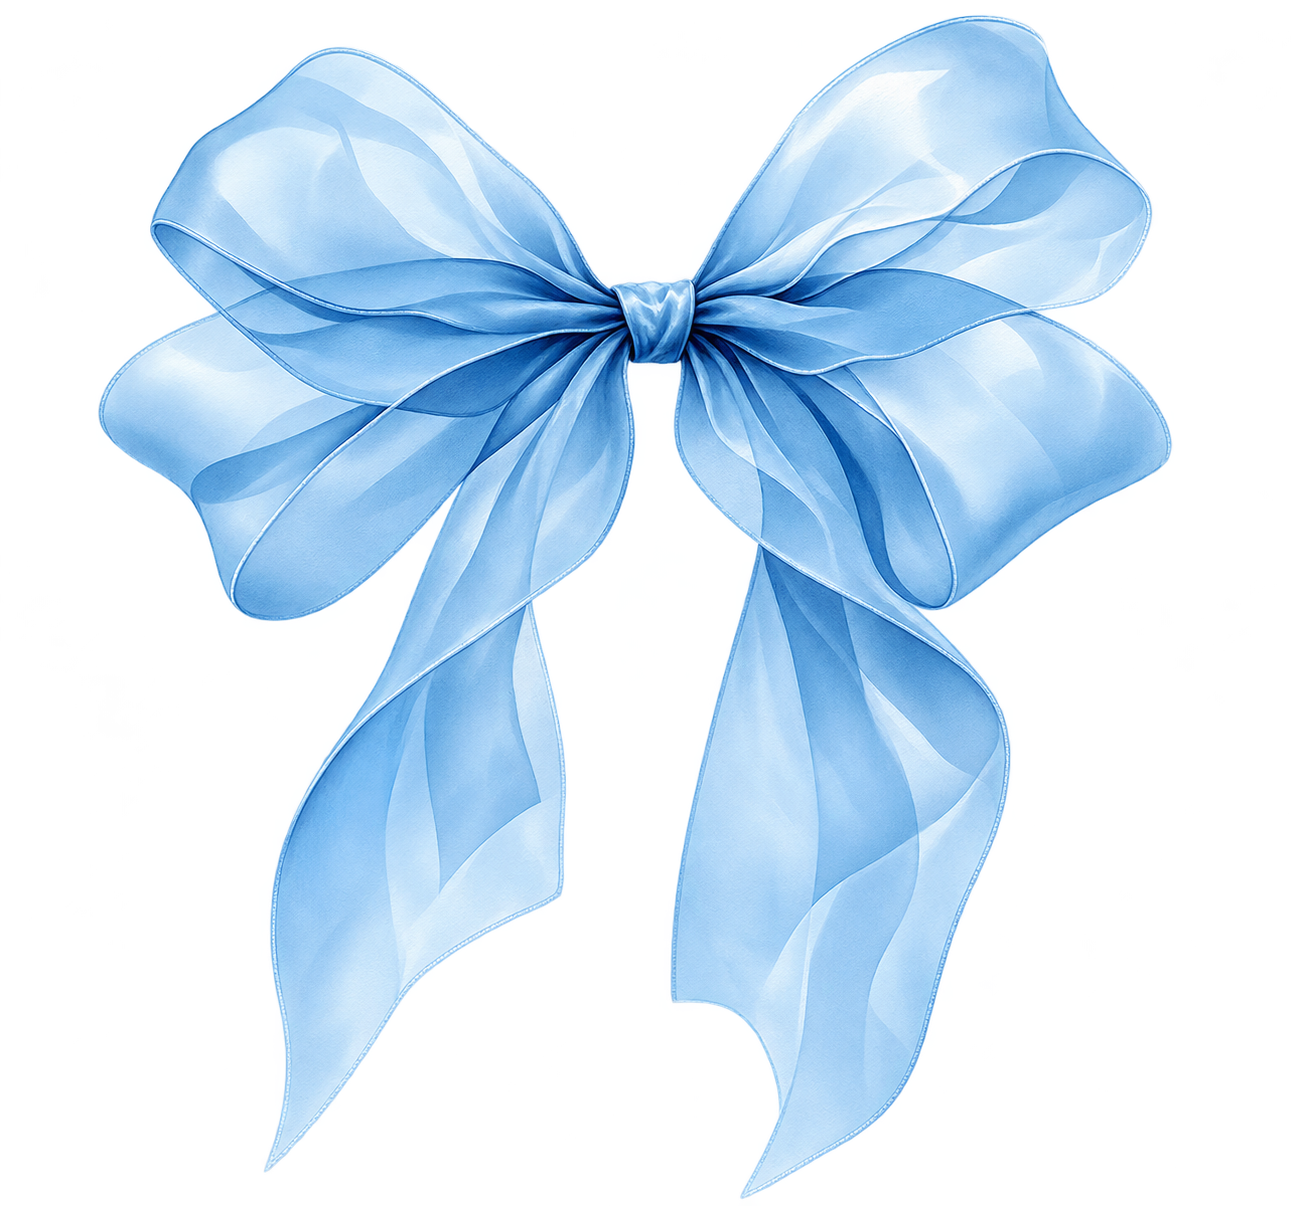
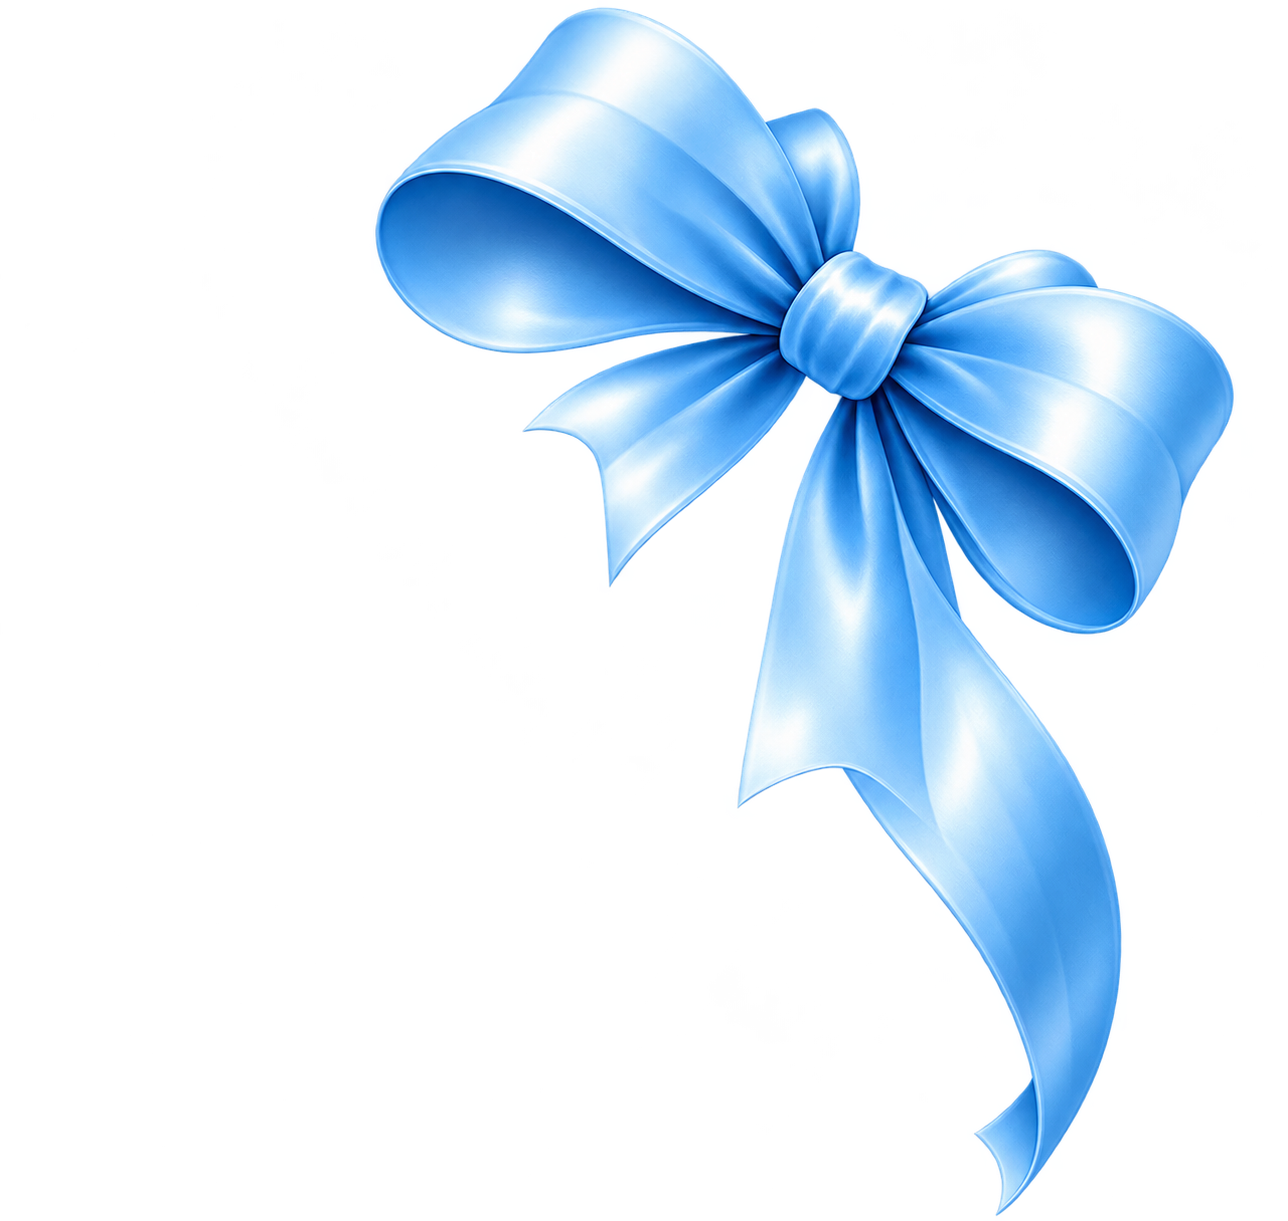
Add separate Cloudinary account for blog uploads

diff --git a/app/p/wedding/[token]/page.tsx b/app/p/wedding/[token]/page.tsx
@@ -239,7 +239,7 @@ export default function WeddingCataloguePage() {
       }}
     >     
       
-            {/* WEDDING CATALOGUE HERO — QUOTATION COVER STYLE */}
+      {/* WEDDING CATALOGUE HERO — QUOTATION COVER STYLE */}
       <section
         className="relative isolate flex min-h-[100svh] w-full items-center justify-center overflow-hidden px-4 pb-8 pt-24 text-center text-white sm:px-8 sm:pb-12 sm:pt-28"
         style={{
@@ -412,174 +412,168 @@ export default function WeddingCataloguePage() {
       <section className="mx-auto max-w-7xl px-5 pb-24 sm:px-8">
         <div className="space-y-12">
           {data.templates.map((pkg, index) => (
-            <article
-              key={pkg.templateCode}
-              className="relative overflow-visible border bg-white shadow-sm"
-              style={{ borderColor: `${theme.secondary}66` }}
+            
+          <article
+            key={pkg.templateCode}
+            className="relative overflow-visible border border-[#C6A15B]/70 bg-white shadow-[0_18px_40px_rgba(20,35,59,0.14)]"
+          >
+            {/* NAVY HEADER */}
+            <div
+              className="relative overflow-visible p-7 text-white sm:p-10"
+              style={{ backgroundColor: theme.primary }}
             >
-              {/* BLUE ORGANZA BOW — TOP RIGHT CORNER */}
-                <img
-                  src="/images/wedding-blue-ribbon.png"
-                  alt=""
-                  aria-hidden="true"
-                  className="pointer-events-none absolute -right-7 -top-9 z-40 h-auto w-24 rotate-[12deg] object-contain sm:-right-9 sm:-top-11 sm:w-32 md:w-36"
-                />
-  
-              <div
-                className="p-7 text-white sm:p-10"
-                style={{ backgroundColor: theme.primary }}
-              >
-                <div className="flex flex-col justify-between gap-6 sm:flex-row sm:items-center">
-                  <div>
-                    <p
-                      className="text-xs tracking-[0.3em]"
-                      style={{ color: theme.secondary }}
-                    >
-                      {pkg.category.toUpperCase()} COLLECTION ·{" "}
-                      {String(index + 1).padStart(2, "0")}
-                    </p>
+              {/* TOP-RIGHT BLUE RIBBON */}
+              <img
+                src="/images/wedding-blue-ribbon.png"
+                alt=""
+                aria-hidden="true"
+                className="pointer-events-none absolute -right-8 -top-10 z-30 h-auto w-40 rotate-[12deg] object-contain sm:-right-14 sm:-top-12.5 sm:w-67"
+              />
 
-                    <h3 className="mt-4 font-serif text-3xl sm:text-4xl">
-                      {pkg.packageName}
-                    </h3>
-
-                    {pkg.description && (
-                      <p className="mt-3 text-sm text-white/70">
-                        {pkg.description}
-                      </p>
-                    )}
-                  </div>
-
-                  <div className="sm:text-right">
-                    <p className="text-xs tracking-[0.2em] text-white/60">
-                      PACKAGE INVESTMENT
-                    </p>
-
-                    <p
-                      className="mt-2 text-3xl font-serif sm:text-4xl"
-                      style={{ color: theme.secondary }}
-                    >
-                      {formatPrice(pkg.basePrice)}
-                    </p>
-                  </div>
-                </div>
-              </div>
-
-              <div className="grid gap-10 p-7 sm:grid-cols-2 sm:p-10">
+              <div className="flex flex-col justify-between gap-6 pr-12 sm:flex-row sm:items-center sm:pr-20">
                 <div>
-                  <h4
-                    className="border-b pb-4 font-serif text-xl"
-                    style={{
-                      color: theme.primary,
-                      borderColor: `${theme.secondary}66`,
-                    }}
+                  <p
+                    className="text-xs tracking-[0.3em]"
+                    style={{ color: theme.secondary }}
                   >
-                    Event Day Crew
-                  </h4>
+                    {pkg.category.toUpperCase()} COLLECTION ·{" "}
+                    {String(index + 1).padStart(2, "0")}
+                  </p>
 
-                  <div className="mt-5 space-y-4">
-                    {pkg.services.map((item, itemIndex) => (
-                      <div
-                        key={`${pkg.templateCode}-service-${itemIndex}`}
-                        className="flex items-start justify-between gap-4 text-sm"
-                      >
-                        <div>
-                          <p className="font-medium">
-                            {displayItem(item)}
-                          </p>
+                  <h3 className="mt-4 font-serif text-3xl sm:text-4xl">
+                    {pkg.packageName}
+                  </h3>
 
-                          {itemDescription(item) && (
-                            <p className="mt-1 text-xs text-gray-500">
-                              {itemDescription(item)}
-                            </p>
-                          )}
-                        </div>
-
-                        {itemQuantity(item) !== null && (
-                          <span className="shrink-0 text-sm text-gray-500">
-                            × {itemQuantity(item)}
-                          </span>
-                        )}
-                      </div>
-                    ))}
-                  </div>
+                  {pkg.description && (
+                    <p className="mt-3 text-sm text-white/70">
+                      {pkg.description}
+                    </p>
+                  )}
                 </div>
 
-                <div>
-                  <h4
-                    className="border-b pb-4 font-serif text-xl"
-                    style={{
-                      color: theme.primary,
-                      borderColor: `${theme.secondary}66`,
-                    }}
+                <div className="sm:text-right">
+                  <p className="text-xs tracking-[0.2em] text-white/60">
+                    PACKAGE INVESTMENT
+                  </p>
+
+                  <p
+                    className="mt-2 font-serif text-3xl sm:text-4xl"
+                    style={{ color: theme.secondary }}
                   >
-                    Package Deliverables
-                  </h4>
-
-                  <div className="mt-5 space-y-4">
-                    {pkg.deliverables.map((item, itemIndex) => (
-                      <div
-                        key={`${pkg.templateCode}-deliverable-${itemIndex}`}
-                        className="flex items-start justify-between gap-4 text-sm"
-                      >
-                        <div>
-                          <p className="font-medium">
-                            {displayItem(item)}
-                          </p>
-
-                          {itemDescription(item) && (
-                            <p className="mt-1 text-xs text-gray-500">
-                              {itemDescription(item)}
-                            </p>
-                          )}
-                        </div>
-
-                        {itemQuantity(item) !== null && (
-                          <span className="shrink-0 text-sm text-gray-500">
-                            × {itemQuantity(item)}
-                          </span>
-                        )}
-                      </div>
-                    ))}
-                  </div>
-                </div>
-              </div>
-
-              <div
-                className="relative flex min-h-[150px] flex-col items-center justify-between gap-4 overflow-hidden border-t px-5 py-5 sm:flex-row sm:px-10"
-                style={{ borderColor: `${theme.secondary}66` }}
-              >
-                {/* Decorative flower on the left */}
-                <div className="flex w-full items-center gap-3 sm:w-auto sm:gap-4">
-                  <img
-                    src="/images/wedding-flower.png"
-                    alt=""
-                    aria-hidden="true"
-                    className="h-[105px] w-[72px] shrink-0 object-contain object-center sm:h-[125px] sm:w-[88px]"
-                    loading="lazy"
-                    style={{ mixBlendMode: "multiply" }}
-                  />
-
-                  <p className="text-xs text-gray-500">
-                    {pkg.packageName} · {formatPrice(pkg.basePrice)}
+                    {formatPrice(pkg.basePrice)}
                   </p>
                 </div>
-
-                {/* Enquiry button */}
-                <button
-                  type="button"
-                  onClick={() =>
-                    openWhatsApp(
-                      `Hello ${businessName}, I am interested in the ${pkg.packageName} (${formatPrice(pkg.basePrice)}) wedding package. Please share more details.`
-                    )
-                  }
-                  className="w-full px-8 py-4 text-xs tracking-[0.15em] text-white transition hover:opacity-90 sm:w-auto"
-                  style={{ backgroundColor: theme.primary }}
-                >
-                  ENQUIRE ABOUT THIS PACKAGE →
-                </button>
               </div>
-            </article>
+            </div>
+
+            {/* PACKAGE CONTENT */}
+            <div className="relative grid gap-10 px-7 pb-28 pt-7 sm:grid-cols-2 sm:px-10 sm:pb-32 sm:pt-10">
+              <div>
+                <h4
+                  className="border-b pb-4 font-serif text-xl"
+                  style={{
+                    color: theme.primary,
+                    borderColor: `${theme.secondary}66`,
+                  }}
+                >
+                  Event Day Crew
+                </h4>
+
+                <div className="mt-5 space-y-4">
+                  {pkg.services.map((item, itemIndex) => (
+                    <div
+                      key={`${pkg.templateCode}-service-${itemIndex}`}
+                      className="flex items-start justify-between gap-4 text-sm"
+                    >
+                      <div>
+                        <p className="font-medium">{displayItem(item)}</p>
+                        {itemDescription(item) && (
+                          <p className="mt-1 text-xs text-gray-500">
+                            {itemDescription(item)}
+                          </p>
+                        )}
+                      </div>
+
+                      {itemQuantity(item) !== null && (
+                        <span className="shrink-0 text-sm text-gray-500">
+                          × {itemQuantity(item)}
+                        </span>
+                      )}
+                    </div>
+                  ))}
+                </div>
+              </div>
+
+              <div>
+                <h4
+                  className="border-b pb-4 font-serif text-xl"
+                  style={{
+                    color: theme.primary,
+                    borderColor: `${theme.secondary}66`,
+                  }}
+                >
+                  Package Deliverables
+                </h4>
+
+                <div className="mt-5 space-y-4">
+                  {pkg.deliverables.map((item, itemIndex) => (
+                    <div
+                      key={`${pkg.templateCode}-deliverable-${itemIndex}`}
+                      className="flex items-start justify-between gap-4 text-sm"
+                    >
+                      <div>
+                        <p className="font-medium">{displayItem(item)}</p>
+                        {itemDescription(item) && (
+                          <p className="mt-1 text-xs text-gray-500">
+                            {itemDescription(item)}
+                          </p>
+                        )}
+                      </div>
+
+                      {itemQuantity(item) !== null && (
+                        <span className="shrink-0 text-sm text-gray-500">
+                          × {itemQuantity(item)}
+                        </span>
+                      )}
+                    </div>
+                  ))}
+                </div>
+              </div>
+
+              {/* BOTTOM-LEFT FLOWER BOUQUET */}
+              <img
+                src="/images/wedding-flower.png"
+                alt=""
+                aria-hidden="true"
+                className="pointer-events-none absolute -bottom-5 -left-7 z-30 h-auto w-45 object-contain sm:-bottom-7 sm:-left-25 sm:w-54"
+                loading="lazy"
+              />
+            </div>
+
+            {/* PACKAGE FOOTER */}
+            <div
+              className="relative flex min-h-[100px] flex-col items-center justify-between gap-4 border-t px-5 py-5 sm:flex-row sm:px-10"
+              style={{ borderColor: `${theme.secondary}66` }}
+            >
+              <p className="pl-2 text-xs text-gray-500">
+                {pkg.packageName} · {formatPrice(pkg.basePrice)}
+              </p>
+
+              <button
+                type="button"
+                onClick={() =>
+                  openWhatsApp(
+                    `Hello ${businessName}, I am interested in the ${pkg.packageName} (${formatPrice(pkg.basePrice)}) wedding package. Please share more details.`
+                  )
+                }
+                className="w-full px-8 py-4 text-xs tracking-[0.15em] text-white transition hover:opacity-90 sm:w-auto"
+                style={{ backgroundColor: theme.primary }}
+              >
+                ENQUIRE ABOUT THIS PACKAGE →
+              </button>
+            </div>
+          </article>
+
           ))}
         </div>
       </section>
